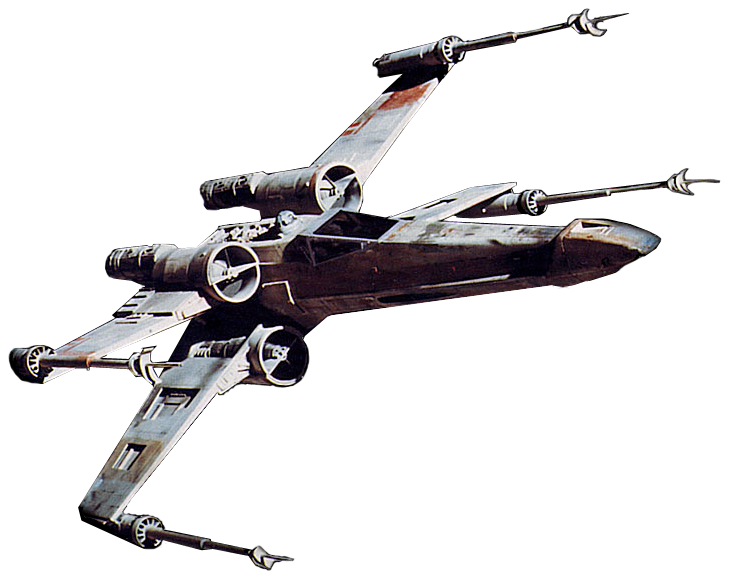
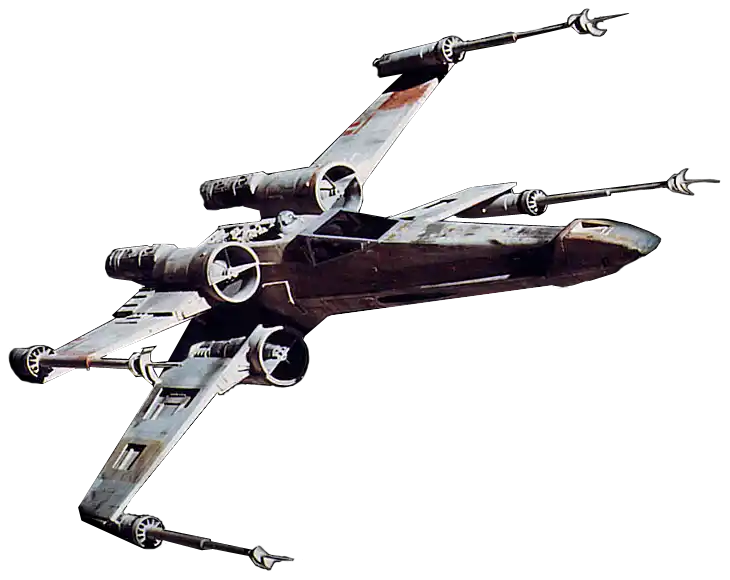
Optimized images

diff --git a/js/main.js b/js/main.js
@@ -284,6 +284,23 @@ function addMision(e) {
 }
 
 
+// Se registra UNA sola vez al cargar la página, fuera de renderKanban
+document.querySelectorAll('.columna').forEach(columna => {
+    columna.addEventListener('dragover', (e) => {
+        e.preventDefault();
+    });
+    columna.addEventListener('drop', (e) => {
+        e.preventDefault();
+        const idMision = e.dataTransfer.getData('text/plain');
+        const misionArrastrada = misiones.find(m => m.id == idMision);
+        if (misionArrastrada) {
+            misionArrastrada.columna = columna.id;
+            localStorage.setItem('misiones', JSON.stringify(misiones));
+            renderKanban();
+        }
+    });
+});
+
 function renderKanban(filtro = 'todas') {
     document.querySelector('#pendiente .tarjetas').innerHTML = '';
     document.querySelector('#en-curso .tarjetas').innerHTML = '';
@@ -294,7 +311,7 @@ function renderKanban(filtro = 'todas') {
         ? misiones 
         : misiones.filter(m => m.dificultad === filtro);
 
-        //recorre las misiones con esa dificultad y las muestra
+    //recorre las misiones con esa dificultad y las muestra
     misionesFiltradas.forEach(mision => {
         const piloto = pilotos.find(p => p.id == mision.piloto);
         const tarjeta = document.createElement('div');
@@ -314,34 +331,15 @@ function renderKanban(filtro = 'todas') {
 
         document.querySelector(`#${mision.columna} .tarjetas`).appendChild(tarjeta);
 
-        //dragstart
+        // dragstart sí va aquí porque cada tarjeta nueva necesita el suyo
         tarjeta.setAttribute('draggable', true);   
         tarjeta.addEventListener('dragstart', (e) => {
             e.dataTransfer.setData('text/plain', mision.id);
         });
-        
-        const columnas = document.querySelectorAll('.columna');    
-            columnas.forEach(columna => {
-                columna.addEventListener('dragover', (e) => {
-                    e.preventDefault();
-                });
-                columna.addEventListener('drop', (e) => {
-                    e.preventDefault();
-                    const idMision = e.dataTransfer.getData('text/plain');
-                    const misionArrastrada = misiones.find(m => m.id == idMision);
-                    if (misionArrastrada) {
-                        misionArrastrada.columna = columna.id;
-                        localStorage.setItem('misiones', JSON.stringify(misiones));
-                        renderKanban();
-                    }
-                });   
-            });
     });
-
 
     actualizarContadores();
 }
-
 //Si no es pendiente crear el boton de retroceder
 //${mision.columna !== 'pendiente' ? `<button onclick="retrocederMision(${mision.id})">⬅ Retroceder</button>` : ''}
 //Si no es completada crea el boton de avanzar
